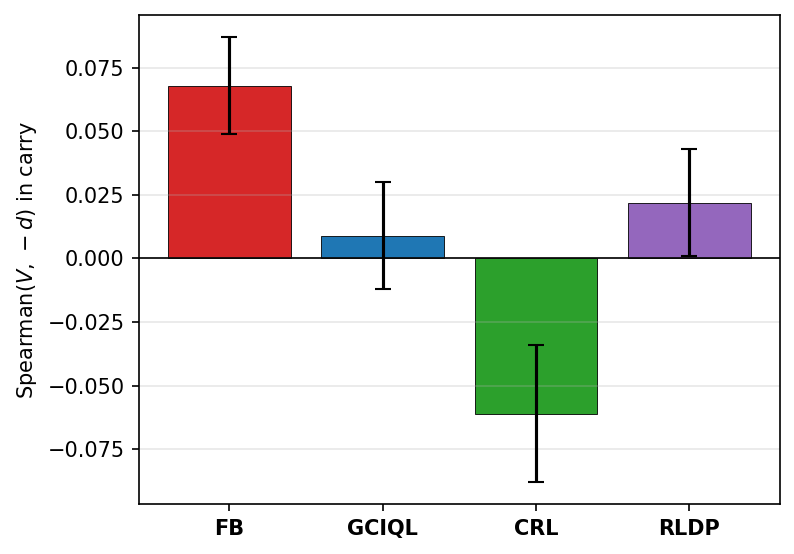
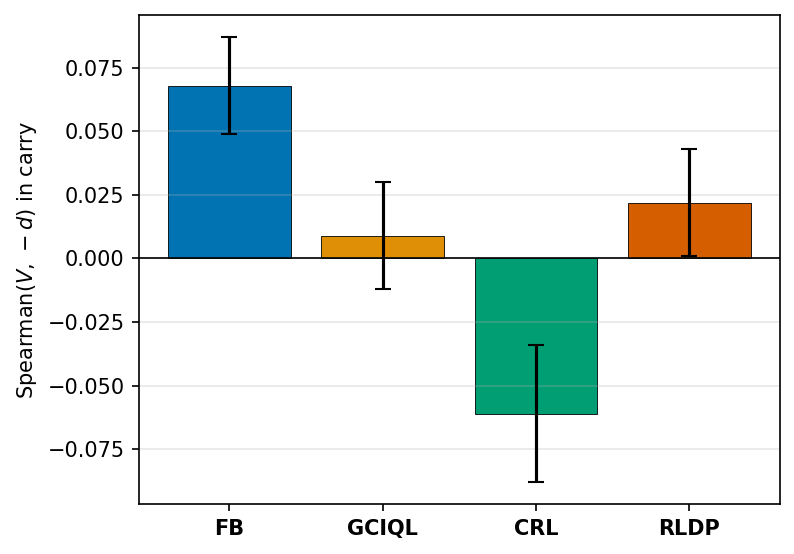
paper(rlbrew): colorblind palette + horizontal legend on figures
- Switch figure colors to the seaborn colorblind (Okabe-Ito) palette, the RL
  standard; set as the default cycle so the aliasing regime bars match.
- fig_outcomes: move the legend to a single horizontal row above the axes so
  it no longer overlaps RLDP's maintain bar.

Changed region(s): [[0.2116, 0.1534, 0.5743, 0.491], [0.5743, 0.4603, 0.7557, 0.7671], [0.7859, 0.3682, 0.9673, 0.491]]

diff --git a/scripts/plot_rlbrew_figures.py b/scripts/plot_rlbrew_figures.py
@@ -21,13 +21,20 @@ from pathlib import Path
 import matplotlib.pyplot as plt
 import numpy as np
 import pandas as pd
+import seaborn as sns
+
+# Colorblind palette (Okabe-Ito), the de-facto standard for RL figures; also set
+# as the default cycle so the by-regime aliasing bars use it.
+sns.set_palette("colorblind")
+_CB = sns.color_palette("colorblind").as_hex()
+# blue, orange, green, vermillion, purple = _CB[0..4]
 
 REPO = Path(__file__).resolve().parent.parent
 ANALYSIS = REPO / "analysis"
 OUT = REPO / "PAPER" / "rlbrew" / "figures"
 
 METHODS = ["FB", "GCIQL", "CRL", "RLDP"]
-MC = {"FB": "#d62728", "GCIQL": "#1f77b4", "CRL": "#2ca02c", "RLDP": "#9467bd"}
+MC = {"FB": _CB[0], "GCIQL": _CB[1], "CRL": _CB[2], "RLDP": _CB[3]}
 
 # S0 terminal-outcome distribution (% episodes, mean over seeds).
 OUTCOMES = {
@@ -38,8 +45,10 @@ OUTCOMES = {
 }
 OUTCOME_KEYS = ["success", "approach", "grasp", "maintain", "transport"]
 OUTCOME_LAB = ["Success", "Approach fail", "Grasp fail", "Maintain fail", "Transport fail"]
-OUTCOME_COL = {"success": "#2ca02c", "approach": "#9467bd", "grasp": "#ff7f0e",
-               "maintain": "#d62728", "transport": "#1f77b4"}
+# keep the semantics (success=green, maintain=vermillion, transport=blue, ...)
+# but draw from the colorblind palette
+OUTCOME_COL = {"success": _CB[2], "approach": _CB[4], "grasp": _CB[1],
+               "maintain": _CB[3], "transport": _CB[0]}
 
 # Failure-minus-success nearest-neighbour distance (paper-canonical; cf. appendix
 # support table). Columns: pickup Mf-S, carry Mf-S, pickup Tf-S, carry Tf-S.
@@ -95,7 +104,9 @@ def fig_outcomes(out: Path) -> None:
         bottom += h
     ax.set_xticks(xb); ax.set_xticklabels(METHODS, fontsize=10, fontweight="bold")
     ax.set_ylabel("% of episodes", fontsize=10); ax.set_ylim(0, 102)
-    ax.legend(fontsize=8, loc="upper right", framealpha=0.95)
+    # horizontal legend above the axes so it never overlaps the bars
+    ax.legend(fontsize=7, ncol=5, loc="lower center", bbox_to_anchor=(0.5, 1.01),
+              frameon=False, columnspacing=1.0, handletextpad=0.4)
     fig.tight_layout(); fig.savefig(out, dpi=150, bbox_inches="tight"); plt.close(fig)
     print(f"[plot] wrote {out}")
 
